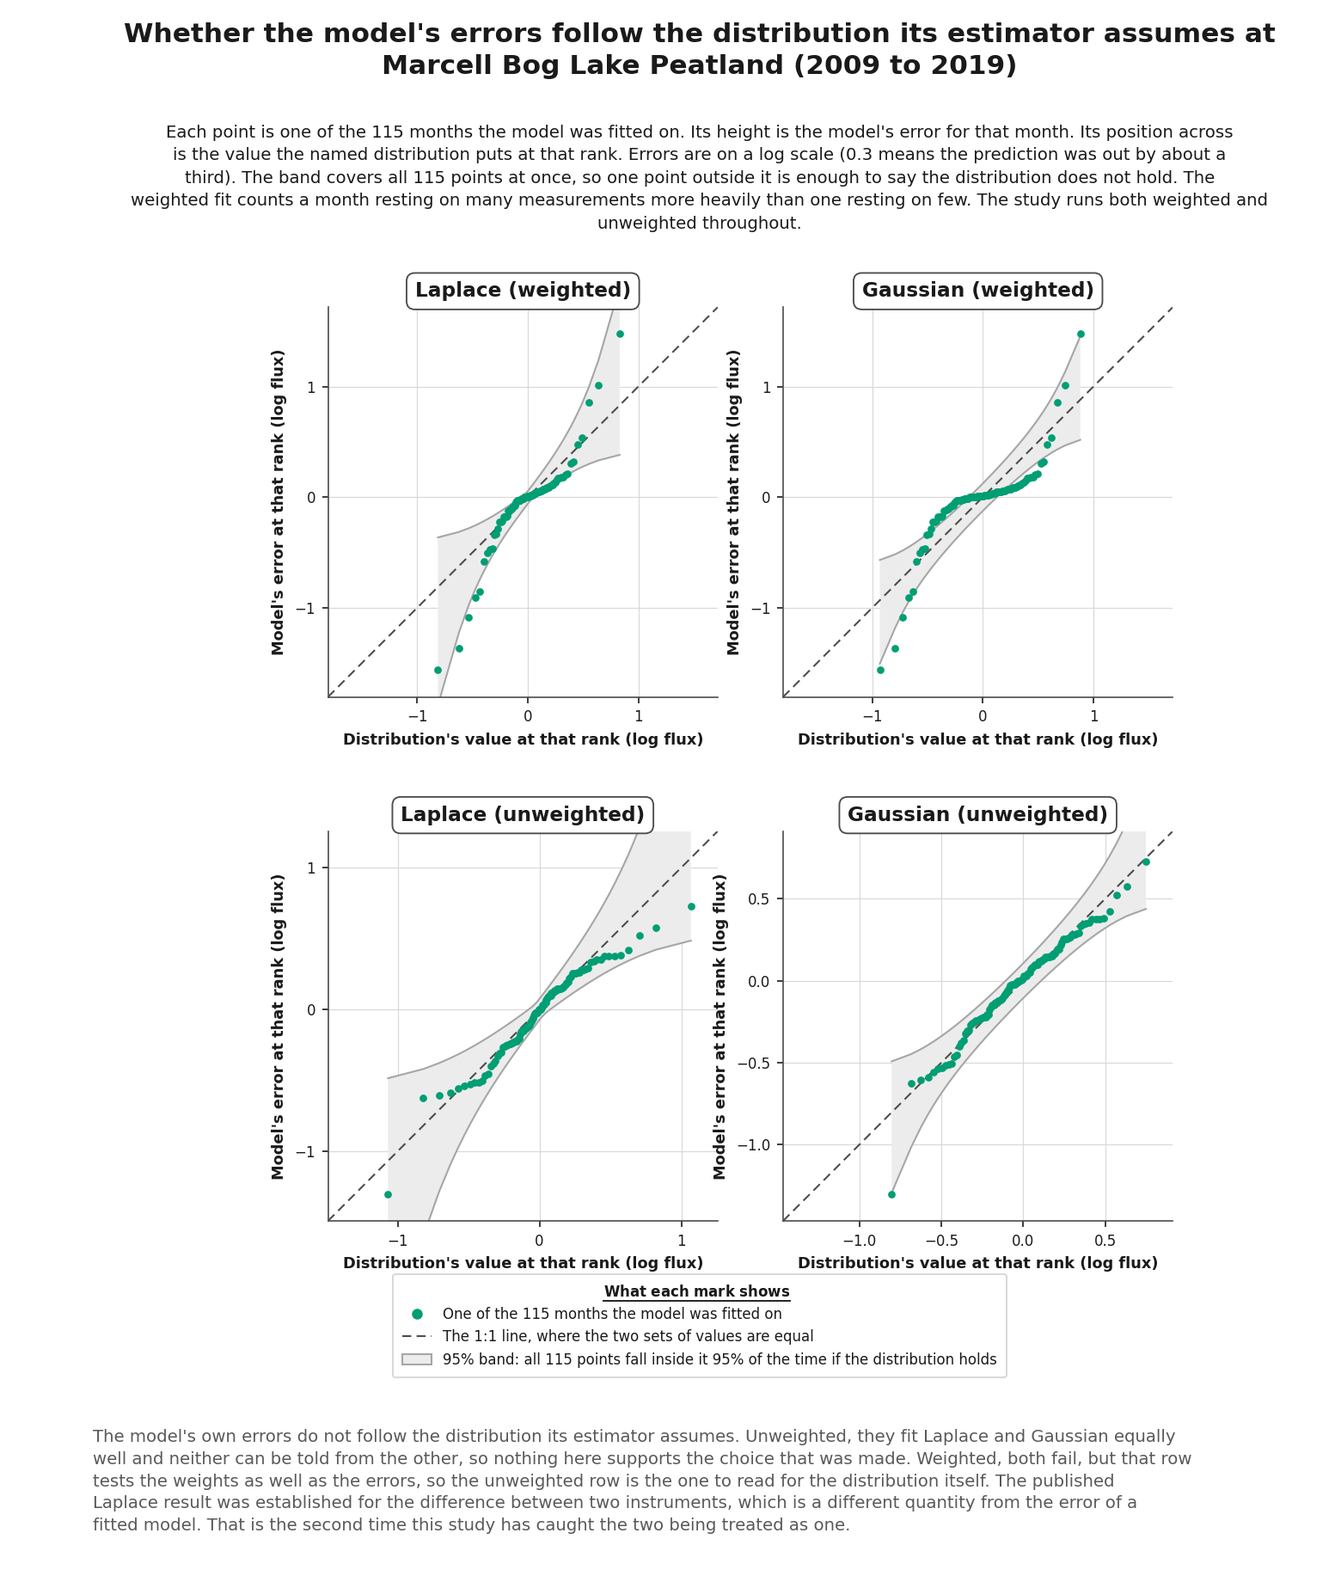
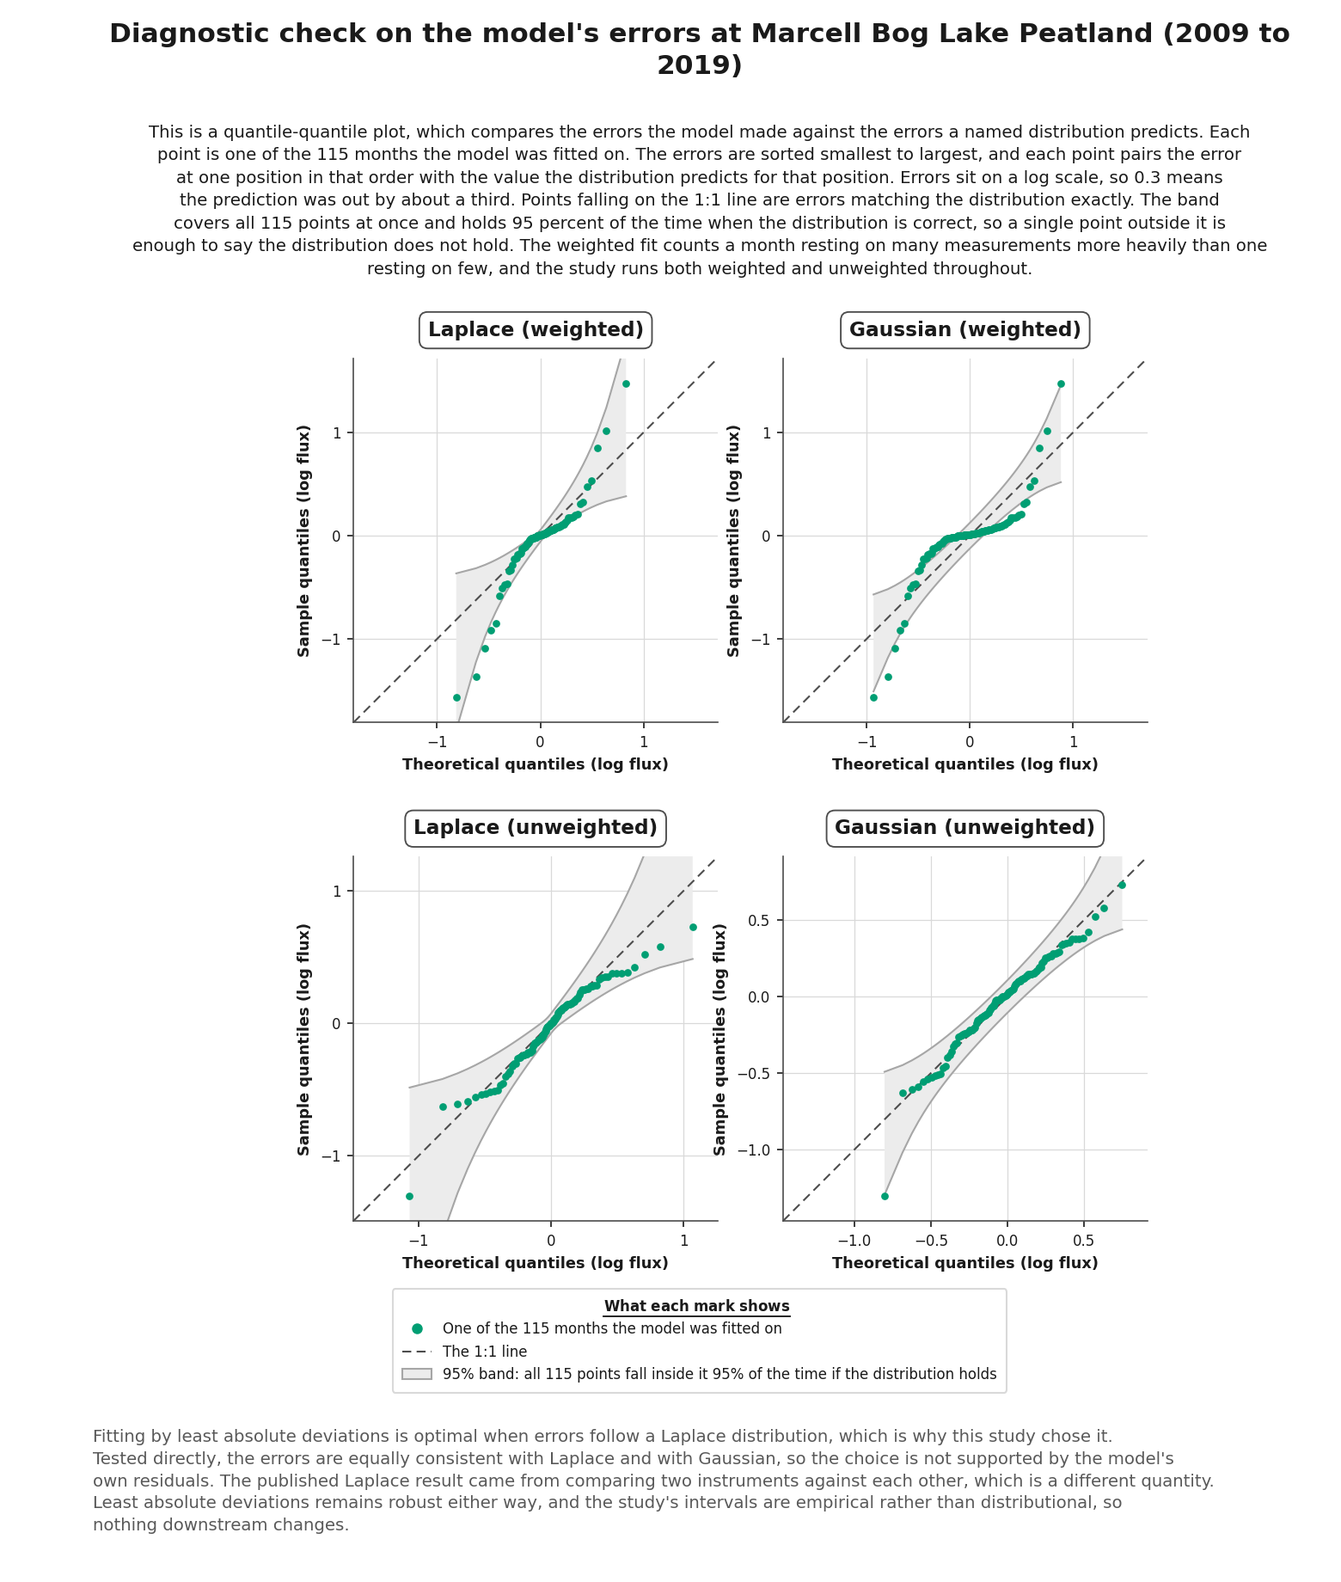
Name the errors figure a diagnostic and bound its null
The title calls it a diagnostic check. It tests an assumption and reports
a null, and the earlier titles implied a finding it does not carry.

The subtitle names the quantile-quantile form before using it: a reader
who has not met one has no way to work out why sorted errors are paired
with predicted values. With that said up front the axes take the
conventional names, Theoretical quantiles and Sample quantiles, and the
key's line entry drops its trailing clause.

The description ends by bounding the null. Least absolute deviations
stays robust whether or not the errors are Laplace, and the intervals are
empirical rather than distributional, so nothing downstream changes. What
the null costs is the argument for the estimator, not the estimator.

Panel labels lifted 14 px and the key dropped so it clears the axis names
of the row above; both were within a few pixels of touching.

diff --git a/tests/test_residual_distribution_check.py b/tests/test_residual_distribution_check.py
@@ -169,12 +169,12 @@ def test_the_panels_carry_no_numbers():
 # --- what the words carry -----------------------------------------------------
 
 
-def test_the_title_names_the_test_rather_than_the_marks():
-    """It read "Model error against the shapes it might follow", which is passive
-    and names nothing. The figure tests one thing and the title says which."""
+def test_the_title_names_this_a_diagnostic():
+    """It checks an assumption and reports a null. Earlier titles ("Model error
+    against the shapes it might follow", "Whether the model's errors follow the
+    distribution its estimator assumes") implied a finding it does not carry."""
     title = figures.DISTRIBUTION_TEXT.title
-    assert title.startswith("Whether the model's errors follow the distribution "
-                            "its estimator assumes")
+    assert title.startswith("Diagnostic check on the model's errors")
     assert "Marcell Bog Lake Peatland" in title
     assert title.endswith("(2009 to 2019)")
 
@@ -190,21 +190,28 @@ def test_nothing_the_figure_says_calls_a_distribution_a_shape():
     assert "shape" not in said
 
 
-def test_the_axis_names_are_the_quantities_rather_than_the_reading():
-    """A quantile plot compares two sets of values rank by rank. Naming an axis
-    for what it is "expected" to show describes the reading rather than the
-    number underneath it."""
-    assert figures.DISTRIBUTION_EXPECTED == "Distribution's value at that rank"
-    assert figures.DISTRIBUTION_OBSERVED == "Model's error at that rank"
+def test_the_axes_take_the_names_a_quantile_plot_carries():
+    """Short, because the subtitle now says what they are in full."""
+    assert figures.DISTRIBUTION_EXPECTED == "Theoretical quantiles"
+    assert figures.DISTRIBUTION_OBSERVED == "Sample quantiles"
 
 
-def test_the_key_says_what_the_line_and_the_band_are():
-    """"Where a point falls if the errors follow that distribution" is circular:
-    it describes the panel by the conclusion it is there to support."""
-    line, band = figures.DISTRIBUTION_KEYS[1], figures.DISTRIBUTION_KEYS[2]
-    assert line == "The 1:1 line, where the two sets of values are equal"
-    assert band.startswith("95% band")
-    assert "all 115 points fall inside it 95% of the time" in band
+def test_the_key_names_the_line_without_explaining_it():
+    """The subtitle defines the 1:1 line, so a trailing clause here repeats it."""
+    assert figures.DISTRIBUTION_KEYS[1] == "The 1:1 line"
+    assert figures.DISTRIBUTION_KEYS[2].startswith("95% band")
+
+
+def test_the_subtitle_says_what_kind_of_plot_this_is_before_anything_else():
+    """A reader who has not met one has no way to work out what pairing sorted
+    errors with predicted values is for."""
+    said = figures.DISTRIBUTION_TEXT.subtitle
+    assert said.startswith("This is a quantile-quantile plot, which compares the "
+                           "errors the model made against the errors a named "
+                           "distribution predicts.")
+    assert "sorted smallest to largest" in said
+    assert "log scale, so 0.3 means the prediction was out by about a third" in said
+    assert "Points falling on the 1:1 line are errors matching the distribution" in said
 
 
 def test_the_subtitle_explains_what_weighting_means():
@@ -213,45 +220,57 @@ def test_the_subtitle_explains_what_weighting_means():
     assert ("weighted fit counts a month resting on many measurements more "
             "heavily than one resting on few") in said
     assert "runs both weighted and unweighted throughout" in said
-    assert "log scale" in said
+
+
+def test_the_subtitle_says_the_band_is_global_and_what_escaping_it_means():
+    said = figures.DISTRIBUTION_TEXT.subtitle
     assert "covers all 115 points at once" in said
+    assert "holds 95 percent of the time when the distribution is correct" in said
+    assert "a single point outside it is enough" in said
 
 
-def test_the_description_leads_with_the_finding_and_carries_no_loose_numbers():
+def test_the_description_carries_no_number_a_reader_cannot_check():
     """The counts, the gap and the factor are precise and none of them can be
-    checked against a panel, so they are in the notes."""
+    read off a panel, so they are in the notes."""
     said = figures.DISTRIBUTION_TEXT.description
-    assert said.startswith("The model's own errors do not follow the "
-                           "distribution its estimator assumes.")
-    for moved in ("554", "96", "0.31", "11 months", "61", "115 months",
-                  "AIC", "factor of"):
+    for moved in ("554", "96", "0.31", "11 months", "61", "AIC", "factor of"):
         assert moved not in said
 
 
-def test_the_description_says_which_row_to_read_and_why():
-    """The two rows disagree and nothing on the panel says which is primary."""
+def test_the_description_says_why_the_estimator_was_chosen_before_testing_it():
+    """A null result on an assumption means nothing to a reader who does not know
+    the assumption was load-bearing."""
     said = figures.DISTRIBUTION_TEXT.description
-    assert "neither can be told from the other" in said
-    assert "Weighted, both fail" in said
-    assert ("that row tests the weights as well as the errors, so the unweighted "
-            "row is the one to read") in said
+    assert said.startswith("Fitting by least absolute deviations is optimal when "
+                           "errors follow a Laplace distribution, which is why "
+                           "this study chose it.")
+    assert "equally consistent with Laplace and with Gaussian" in said
+    assert "not supported by the model's own residuals" in said
 
 
-def test_the_description_names_the_conflation_as_the_takeaway():
-    """Twice now: the published result is about the difference between two
-    instruments, and the estimator assumption is about a fitted model's error."""
+def test_the_description_names_the_conflation():
+    """The published result is about two instruments compared against each other;
+    the assumption is about a fitted model's error."""
     said = figures.DISTRIBUTION_TEXT.description
-    assert "difference between two instruments" in said
-    assert "a different quantity from the error of a fitted model" in said
-    assert "second time this study has caught the two being treated as one" in said
+    assert "comparing two instruments against each other" in said
+    assert "a different quantity" in said
+
+
+def test_the_description_bounds_the_null_result():
+    """Without this a reader is left working out what a failed assumption breaks.
+    The estimator stays robust and the intervals never used the distribution."""
+    said = figures.DISTRIBUTION_TEXT.description
+    assert "remains robust either way" in said
+    assert "intervals are empirical rather than distributional" in said
+    assert "nothing downstream changes" in said
 
 
 def test_no_term_a_reader_outside_the_study_would_have_to_decode():
-    """Study vocabulary, not standard statistics: "quantile" and "residual" name
-    real quantities and the axis titles are allowed to use them."""
+    """Study vocabulary, not standard statistics: this figure is a quantile plot
+    and is allowed to say so."""
     text = figures.DISTRIBUTION_TEXT
     said = " ".join([text.title, text.subtitle, text.description]).lower()
-    for term in ("boruta", "fold", "survival", "lag", "screening", "covariate",
+    for term in ("boruta", "fold", "survival", "screening", "covariate",
                  "heteroscedastic", "kurtosis", "leptokurtic", "order statistic",
-                 "maximum likelihood", "q-q"):
+                 "maximum likelihood"):
         assert term not in said

diff --git a/src/study/figures.py b/src/study/figures.py
@@ -2389,28 +2389,32 @@ def prediction_error_by_year(panels: dict[str, pd.DataFrame]) -> Figure:
 # --------------------------------------------------------------------------
 
 DISTRIBUTION_TEXT = ps.FigureText(
-    title=("Whether the model's errors follow the distribution its estimator "
-           "assumes at Marcell Bog Lake Peatland (2009 to 2019)"),
+    title=("Diagnostic check on the model's errors at Marcell Bog Lake Peatland "
+           "(2009 to 2019)"),
     subtitle=(
-        "Each point is one of the 115 months the model was fitted on. Its height "
-        "is the model's error for that month. Its position across is the value "
-        "the named distribution puts at that rank. Errors are on a log scale "
-        "(0.3 means the prediction was out by about a third). The band covers all "
-        "115 points at once, so one point outside it is enough to say the "
-        "distribution does not hold. The weighted fit counts a month resting on "
-        "many measurements more heavily than one resting on few. The study runs "
-        "both weighted and unweighted throughout."
+        "This is a quantile-quantile plot, which compares the errors the model "
+        "made against the errors a named distribution predicts. Each point is one "
+        "of the 115 months the model was fitted on. The errors are sorted "
+        "smallest to largest, and each point pairs the error at one position in "
+        "that order with the value the distribution predicts for that position. "
+        "Errors sit on a log scale, so 0.3 means the prediction was out by about "
+        "a third. Points falling on the 1:1 line are errors matching the "
+        "distribution exactly. The band covers all 115 points at once and holds "
+        "95 percent of the time when the distribution is correct, so a single "
+        "point outside it is enough to say the distribution does not hold. The "
+        "weighted fit counts a month resting on many measurements more heavily "
+        "than one resting on few, and the study runs both weighted and unweighted "
+        "throughout."
     ),
     description=(
-        "The model's own errors do not follow the distribution its estimator "
-        "assumes. Unweighted, they fit Laplace and Gaussian equally well and "
-        "neither can be told from the other, so nothing here supports the choice "
-        "that was made. Weighted, both fail, but that row tests the weights as "
-        "well as the errors, so the unweighted row is the one to read for the "
-        "distribution itself. The published Laplace result was established for "
-        "the difference between two instruments, which is a different quantity "
-        "from the error of a fitted model. That is the second time this study has "
-        "caught the two being treated as one."
+        "Fitting by least absolute deviations is optimal when errors follow a "
+        "Laplace distribution, which is why this study chose it. Tested directly, "
+        "the errors are equally consistent with Laplace and with Gaussian, so the "
+        "choice is not supported by the model's own residuals. The published "
+        "Laplace result came from comparing two instruments against each other, "
+        "which is a different quantity. Least absolute deviations remains robust "
+        "either way, and the study's intervals are empirical rather than "
+        "distributional, so nothing downstream changes."
     ),
 )
 
@@ -2423,11 +2427,11 @@ DISTRIBUTION_PANELS = (
     ("unweighted", "Gaussian (unweighted)"),
 )
 
-#: Both axes name the quantity literally. A quantile plot compares two sets of
-#: quantiles rank by rank, and naming either axis for what it is "expected" to
-#: show describes the reading rather than the number underneath it.
-DISTRIBUTION_EXPECTED = "Distribution's value at that rank"
-DISTRIBUTION_OBSERVED = "Model's error at that rank"
+#: The names a quantile plot's axes carry by convention. The subtitle says what
+#: they are in full, so the axes themselves stay short enough to sit beside a
+#: panel without crowding it.
+DISTRIBUTION_EXPECTED = "Theoretical quantiles"
+DISTRIBUTION_OBSERVED = "Sample quantiles"
 DISTRIBUTION_UNIT = "log flux"
 
 #: The band is the region every point has to stay inside, so it is drawn as
@@ -2437,7 +2441,7 @@ DISTRIBUTION_BAND_EDGE = "#A6A6A6"
 
 DISTRIBUTION_KEYS = (
     "One of the 115 months the model was fitted on",
-    "The 1:1 line, where the two sets of values are equal",
+    "The 1:1 line",
     "95% band: all 115 points fall inside it 95% of the time if the "
     "distribution holds",
 )
@@ -2508,9 +2512,13 @@ def _distribution_key(fig, left: float, bottom: float, width: float) -> None:
         (Patch(facecolor=DISTRIBUTION_BAND_FILL, edgecolor=DISTRIBUTION_BAND_EDGE,
                linewidth=1.0), DISTRIBUTION_KEYS[2]),
     ]
+    # Held below the middle of its band. The key is taller than the band it sits
+    # in, so centering it puts its top edge against the axis names of the row
+    # above; the room it needs is all below, where the description is not for
+    # another sixty pixels.
     ps.legend(ax, handles=[handle for handle, _ in entries],
               labels=[label for _, label in entries], loc="center",
-              bbox_to_anchor=(0.5, 0.5), ncol=1, framealpha=1.0, borderpad=0.7,
+              bbox_to_anchor=(0.5, 0.31), ncol=1, framealpha=1.0, borderpad=0.7,
               labelspacing=0.5, handlelength=2.0, handletextpad=0.8,
               fontsize=ps.LEGEND_SIZE - 1.5)
     _underline_legend_headings(fig, ax, center=True)
@@ -2556,8 +2564,11 @@ def residual_distribution_check(
         ax = fig.add_axes((at, top - down, across, down))
         _draw_distribution_panel(ax, panels[(weighting, family)],
                                  DISTRIBUTION_UNIT)
+        # Clear of the panel top by more than the frame's own line weight: the
+        # label is drawn from its top edge, so a smaller offset leaves the box
+        # sitting on the frame it names.
         ps.panel_name(ax, name, x=0.5, align="center",
-                      y=1.0 + 30 / (down * height_px))
+                      y=1.0 + 44 / (down * height_px))
 
     _distribution_key(fig, left, bottom, width)
     return fig

diff --git a/figures/README_fragments.md b/figures/README_fragments.md
@@ -62,13 +62,13 @@ The same analysis is drawn twice, once weighting each month by how well it was m
 
 Across every evaluated year the methods fail in much the same way, missing by similar amounts and in similar directions regardless of which year they are predicting. Methane in 2015 is the one exception, and it differs twice over: its months are all small ones, so a weak season holding no large months puts its points entirely in the lower half of the axis, and its months are also missed about 1.7 times as badly as months of the same size across the record.
 
-### Whether the model's errors follow the distribution its estimator assumes at Marcell Bog Lake Peatland (2009 to 2019)
+### Diagnostic check on the model's errors at Marcell Bog Lake Peatland (2009 to 2019)
 
-![Whether the model's errors follow the distribution its estimator assumes at Marcell Bog Lake Peatland (2009 to 2019)](figures/residual_distribution_check.png)
+![Diagnostic check on the model's errors at Marcell Bog Lake Peatland (2009 to 2019)](figures/residual_distribution_check.png)
 
-**Each point is one of the 115 months the model was fitted on. Its height is the model's error for that month. Its position across is the value the named distribution puts at that rank. Errors are on a log scale (0.3 means the prediction was out by about a third). The band covers all 115 points at once, so one point outside it is enough to say the distribution does not hold. The weighted fit counts a month resting on many measurements more heavily than one resting on few. The study runs both weighted and unweighted throughout.**
+**This is a quantile-quantile plot, which compares the errors the model made against the errors a named distribution predicts. Each point is one of the 115 months the model was fitted on. The errors are sorted smallest to largest, and each point pairs the error at one position in that order with the value the distribution predicts for that position. Errors sit on a log scale, so 0.3 means the prediction was out by about a third. Points falling on the 1:1 line are errors matching the distribution exactly. The band covers all 115 points at once and holds 95 percent of the time when the distribution is correct, so a single point outside it is enough to say the distribution does not hold. The weighted fit counts a month resting on many measurements more heavily than one resting on few, and the study runs both weighted and unweighted throughout.**
 
-The model's own errors do not follow the distribution its estimator assumes. Unweighted, they fit Laplace and Gaussian equally well and neither can be told from the other, so nothing here supports the choice that was made. Weighted, both fail, but that row tests the weights as well as the errors, so the unweighted row is the one to read for the distribution itself. The published Laplace result was established for the difference between two instruments, which is a different quantity from the error of a fitted model. That is the second time this study has caught the two being treated as one.
+Fitting by least absolute deviations is optimal when errors follow a Laplace distribution, which is why this study chose it. Tested directly, the errors are equally consistent with Laplace and with Gaussian, so the choice is not supported by the model's own residuals. The published Laplace result came from comparing two instruments against each other, which is a different quantity. Least absolute deviations remains robust either way, and the study's intervals are empirical rather than distributional, so nothing downstream changes.
 
 ### The seasonal cycle in monthly flux at Marcell Bog Lake Peatland
 

diff --git a/notes/study.md b/notes/study.md
@@ -2814,6 +2814,36 @@ assumes about it)*, a parenthesis that names the fit instead of saying what it
 does. It now says the weighted fit **counts a month resting on many measurements
 more heavily than one resting on few**, and that the study runs both throughout.
 
+**The title calls it a diagnostic, which is what sets the expectation.** Three
+titles were tried. *Model error against the shapes it might follow* is passive
+and names nothing that happens. *Whether the model's errors follow the
+distribution its estimator assumes* names the test but reads as though a finding
+follows. **Diagnostic check on the model's errors** says what the figure is for:
+it checks an assumption and reports a null, and a diagnostic is the thing that
+is allowed to do that.
+
+**The subtitle says what a quantile plot is before using one.** A reader who has
+not met the form has no way to work out why sorted errors are being paired with
+predicted values, and every earlier subtitle described the marks without naming
+the construction. It now opens by naming it, says the errors are sorted smallest
+to largest, and says what pairing rank with rank means.
+
+**The axis names went back to the conventional pair.** They passed through *Error
+the shape expects* and *Distribution's value at that rank* before settling on
+**Theoretical quantiles** and **Sample quantiles**, both in log flux. The long
+forms were attempts to avoid a term; once the subtitle defines the plot, the
+short conventional names are the clearest thing on the axis and leave room beside
+a 453 px panel. The key's middle entry lost its trailing clause for the same
+reason: the subtitle defines the 1:1 line, so **The 1:1 line** is enough.
+
+**The description bounds the null rather than leaving it open.** Every earlier
+version stated the negative result and stopped, which leaves a reader working out
+what a failed assumption breaks. The last sentence answers it: least absolute
+deviations stays robust whether or not the errors are Laplace, and the study's
+intervals are the empirical quantiles of the training residuals rather than
+anything distributional, so nothing downstream moves. **What the null costs is
+the argument for the estimator, not the estimator.**
+
 **The description leads with the finding and carries no loose numbers.** The
 counts, the gap of 96, the factor of 554 and the differences in the Akaike
 information criterion are all precise and **none of them can be checked against a
